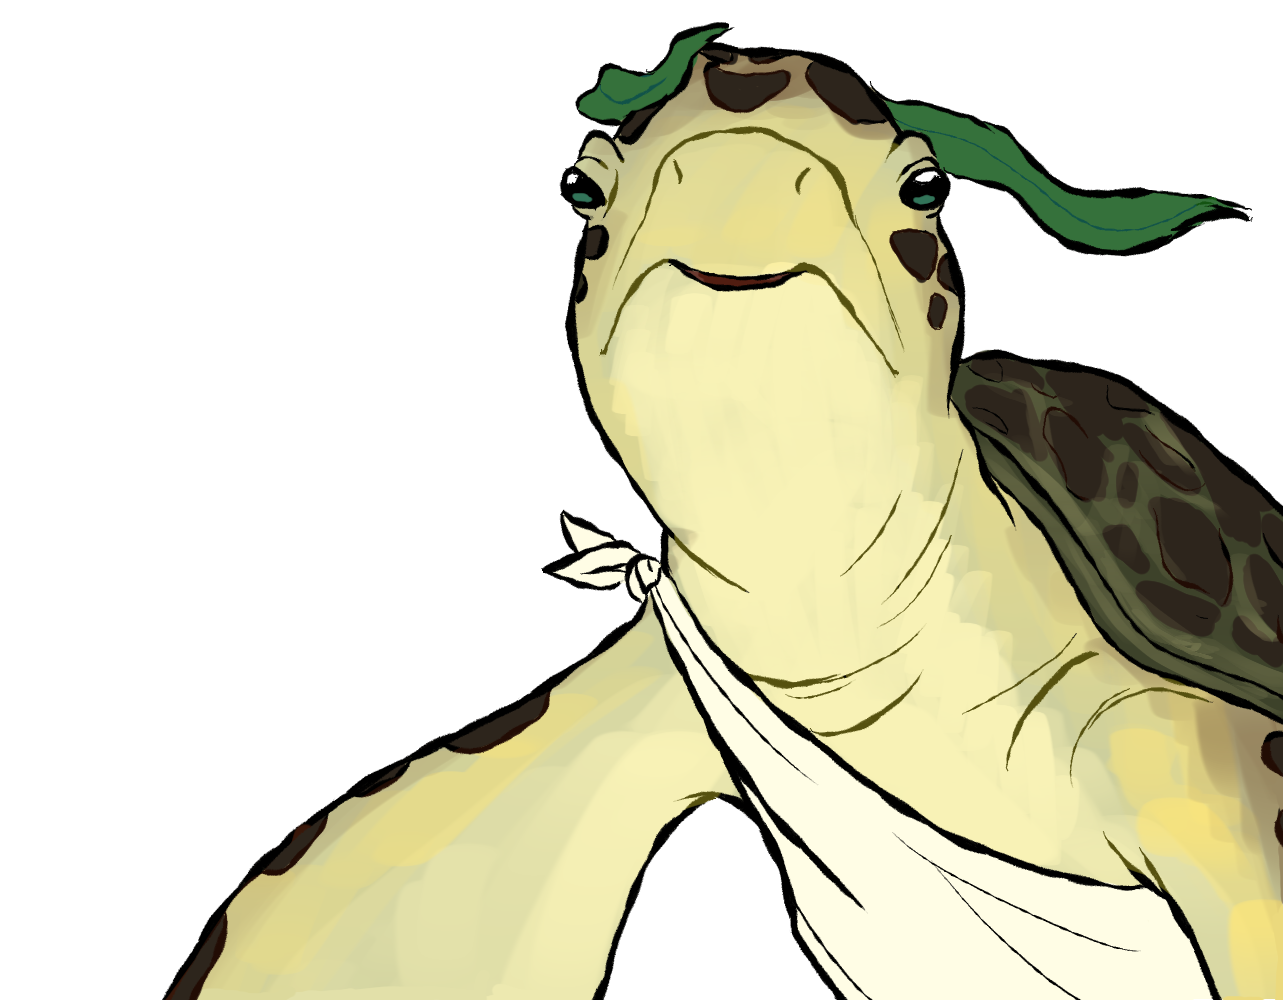
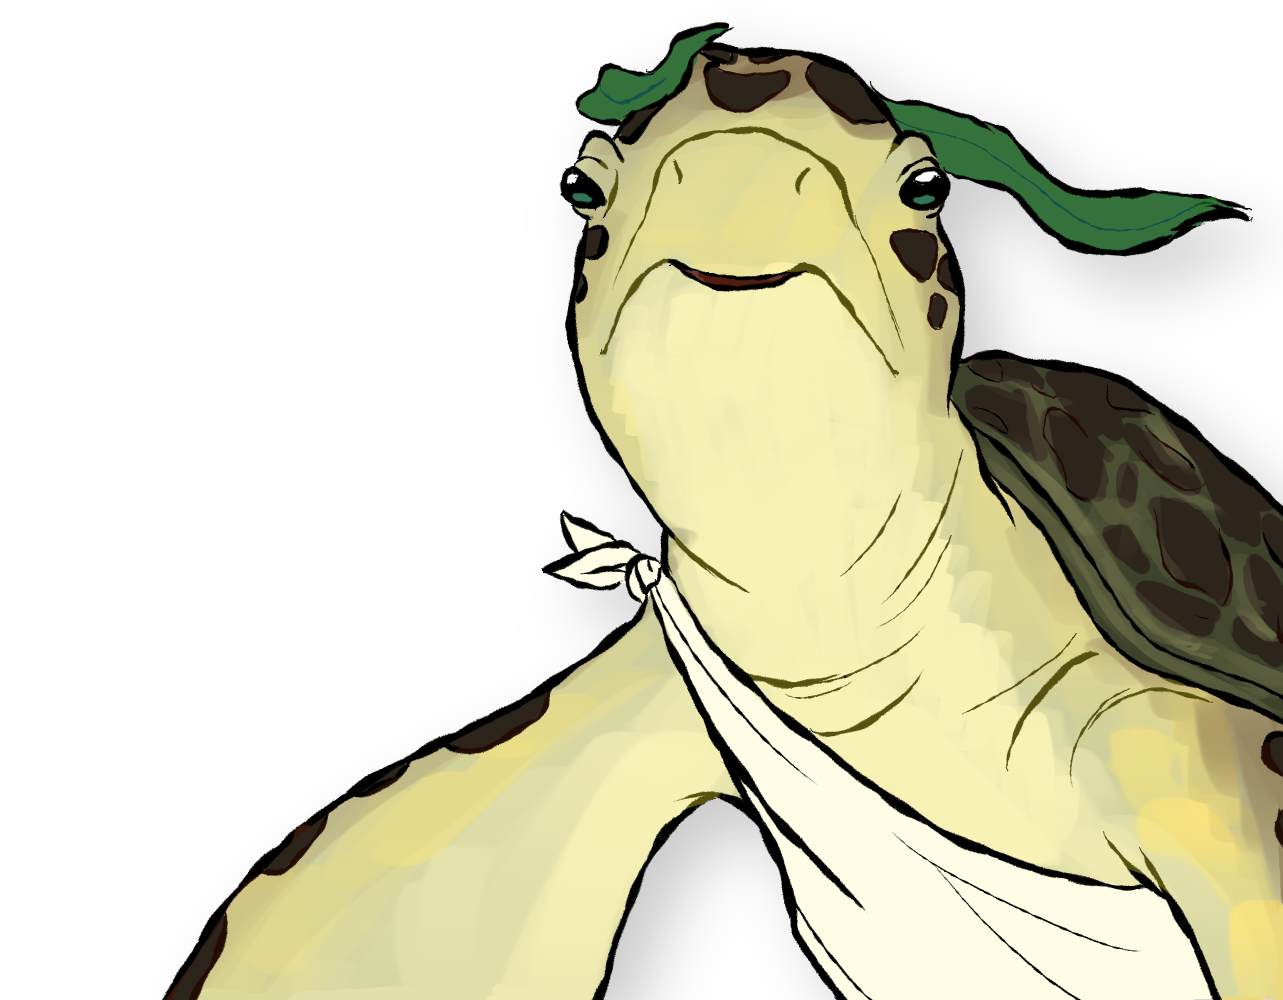
update font, shadows

diff --git a/public/index.html b/public/index.html
@@ -7,13 +7,13 @@
 	<title>Is Water Wet?</title>
 	<script type="text/javascript"
 		src="https://rawgit.com/patriciogonzalezvivo/glslCanvas/master/dist/GlslCanvas.js"></script>
+	<link rel="preconnect" href="https://fonts.googleapis.com">
+	<link rel="preconnect" href="https://fonts.gstatic.com" crossorigin>
+	<link href="https://fonts.googleapis.com/css2?family=Caesar+Dressing&family=Jua&display=swap" rel="stylesheet">
 	<style>
 		body {
 			margin: 0;
 			padding: 0;
-			font-family: sans-serif;
-			/* background: url("https://picsum.photos/id/848/1920/1080.webp?blur") no-repeat center center fixed; */
-			/* background-size: cover; */
 			display: flex;
 			flex-direction: column;
 			height: 100vh;
@@ -66,17 +66,22 @@
 
 		#speaker {
 			display: none;
-			font-weight: bold;
-			font-size: 125%;
-			text-shadow: 1px 1px 8px rgba(0, 0, 0, 0.3);
+			font-family: "Caesar Dressing", sans-serif;
+			font-weight: 400;
+			font-style: normal;
+			font-size: 150%;
+			text-shadow: 0 0 8px rgba(0, 0, 0, 0.6);
 		}
 
 		#dialogueText {
 			display: none;
+			font-family: "Jua", sans-serif;
+			font-weight: 400;
+			font-style: normal;
+			font-size: 150%;
+			text-shadow: 0 0 8px rgba(0, 0, 0, 0.4);
 			-webkit-user-select: text;
 			user-select: text;
-			font-size: 150%;
-			text-shadow: 1px 1px 8px rgba(0, 0, 0, 0.2);
 		}
 
 		#textInputContainer {
@@ -89,7 +94,9 @@
 			width: calc(100% - 2rem);
 			margin-right: 0.5rem;
 			padding: 0.5rem 1rem;
+			font-family: "Courier New", monospace;
 			font-size: 125%;
+			text-shadow: 0 0 8px rgba(0, 0, 0, 0.2);
 			box-sizing: border-box;
 			display: block;
 			border-radius: 1.5rem;
@@ -106,6 +113,9 @@
 
 		button {
 			padding: 0.5rem 1rem;
+			font-family: "Caesar Dressing", sans-serif;
+			font-weight: 400;
+			font-style: normal;
 			font-size: 125%;
 			background-color: #008cf1;
 			color: #fff;
@@ -169,11 +179,11 @@
 	<script>
 		const cast = [
 			{ id: "player", name: "You", color: "#fff", sprite: "img/player.png" },
-			{ id: "darfin", name: "Darfin", color: "#cadef5", sprite: "img/darfin.png" },
-			{ id: "sharx", name: "Sharx", color: "#b8cfe8", sprite: "img/sharx.png" },
-			{ id: "nietzscheel", name: "Nietzscheel", color: "#afbe67", sprite: "img/nietzscheel.png" },
-			{ id: "aristurtle", name: "Aristurtle", color: "#eadf8f", sprite: "img/aristurtle.png" },
-			{ id: "socratuna", name: "Socratuna", color: "#ecad9a", sprite: "img/socratuna.png" }
+			{ id: "darfin", name: "Darfin", color: "#78c4e7", sprite: "img/darfin.png" },
+			{ id: "sharx", name: "Sharx", color: "#78c4e7", sprite: "img/sharx.png" },
+			{ id: "nietzscheel", name: "Nietzscheel", color: "#78c4e7", sprite: "img/nietzscheel.png" },
+			{ id: "aristurtle", name: "Aristurtle", color: "#78c4e7", sprite: "img/aristurtle.png" },
+			{ id: "socratuna", name: "Socratuna", color: "#78c4e7", sprite: "img/socratuna.png" }
 		];
 		function getCast(id) { return cast.find(c => c.id === id); }
 
